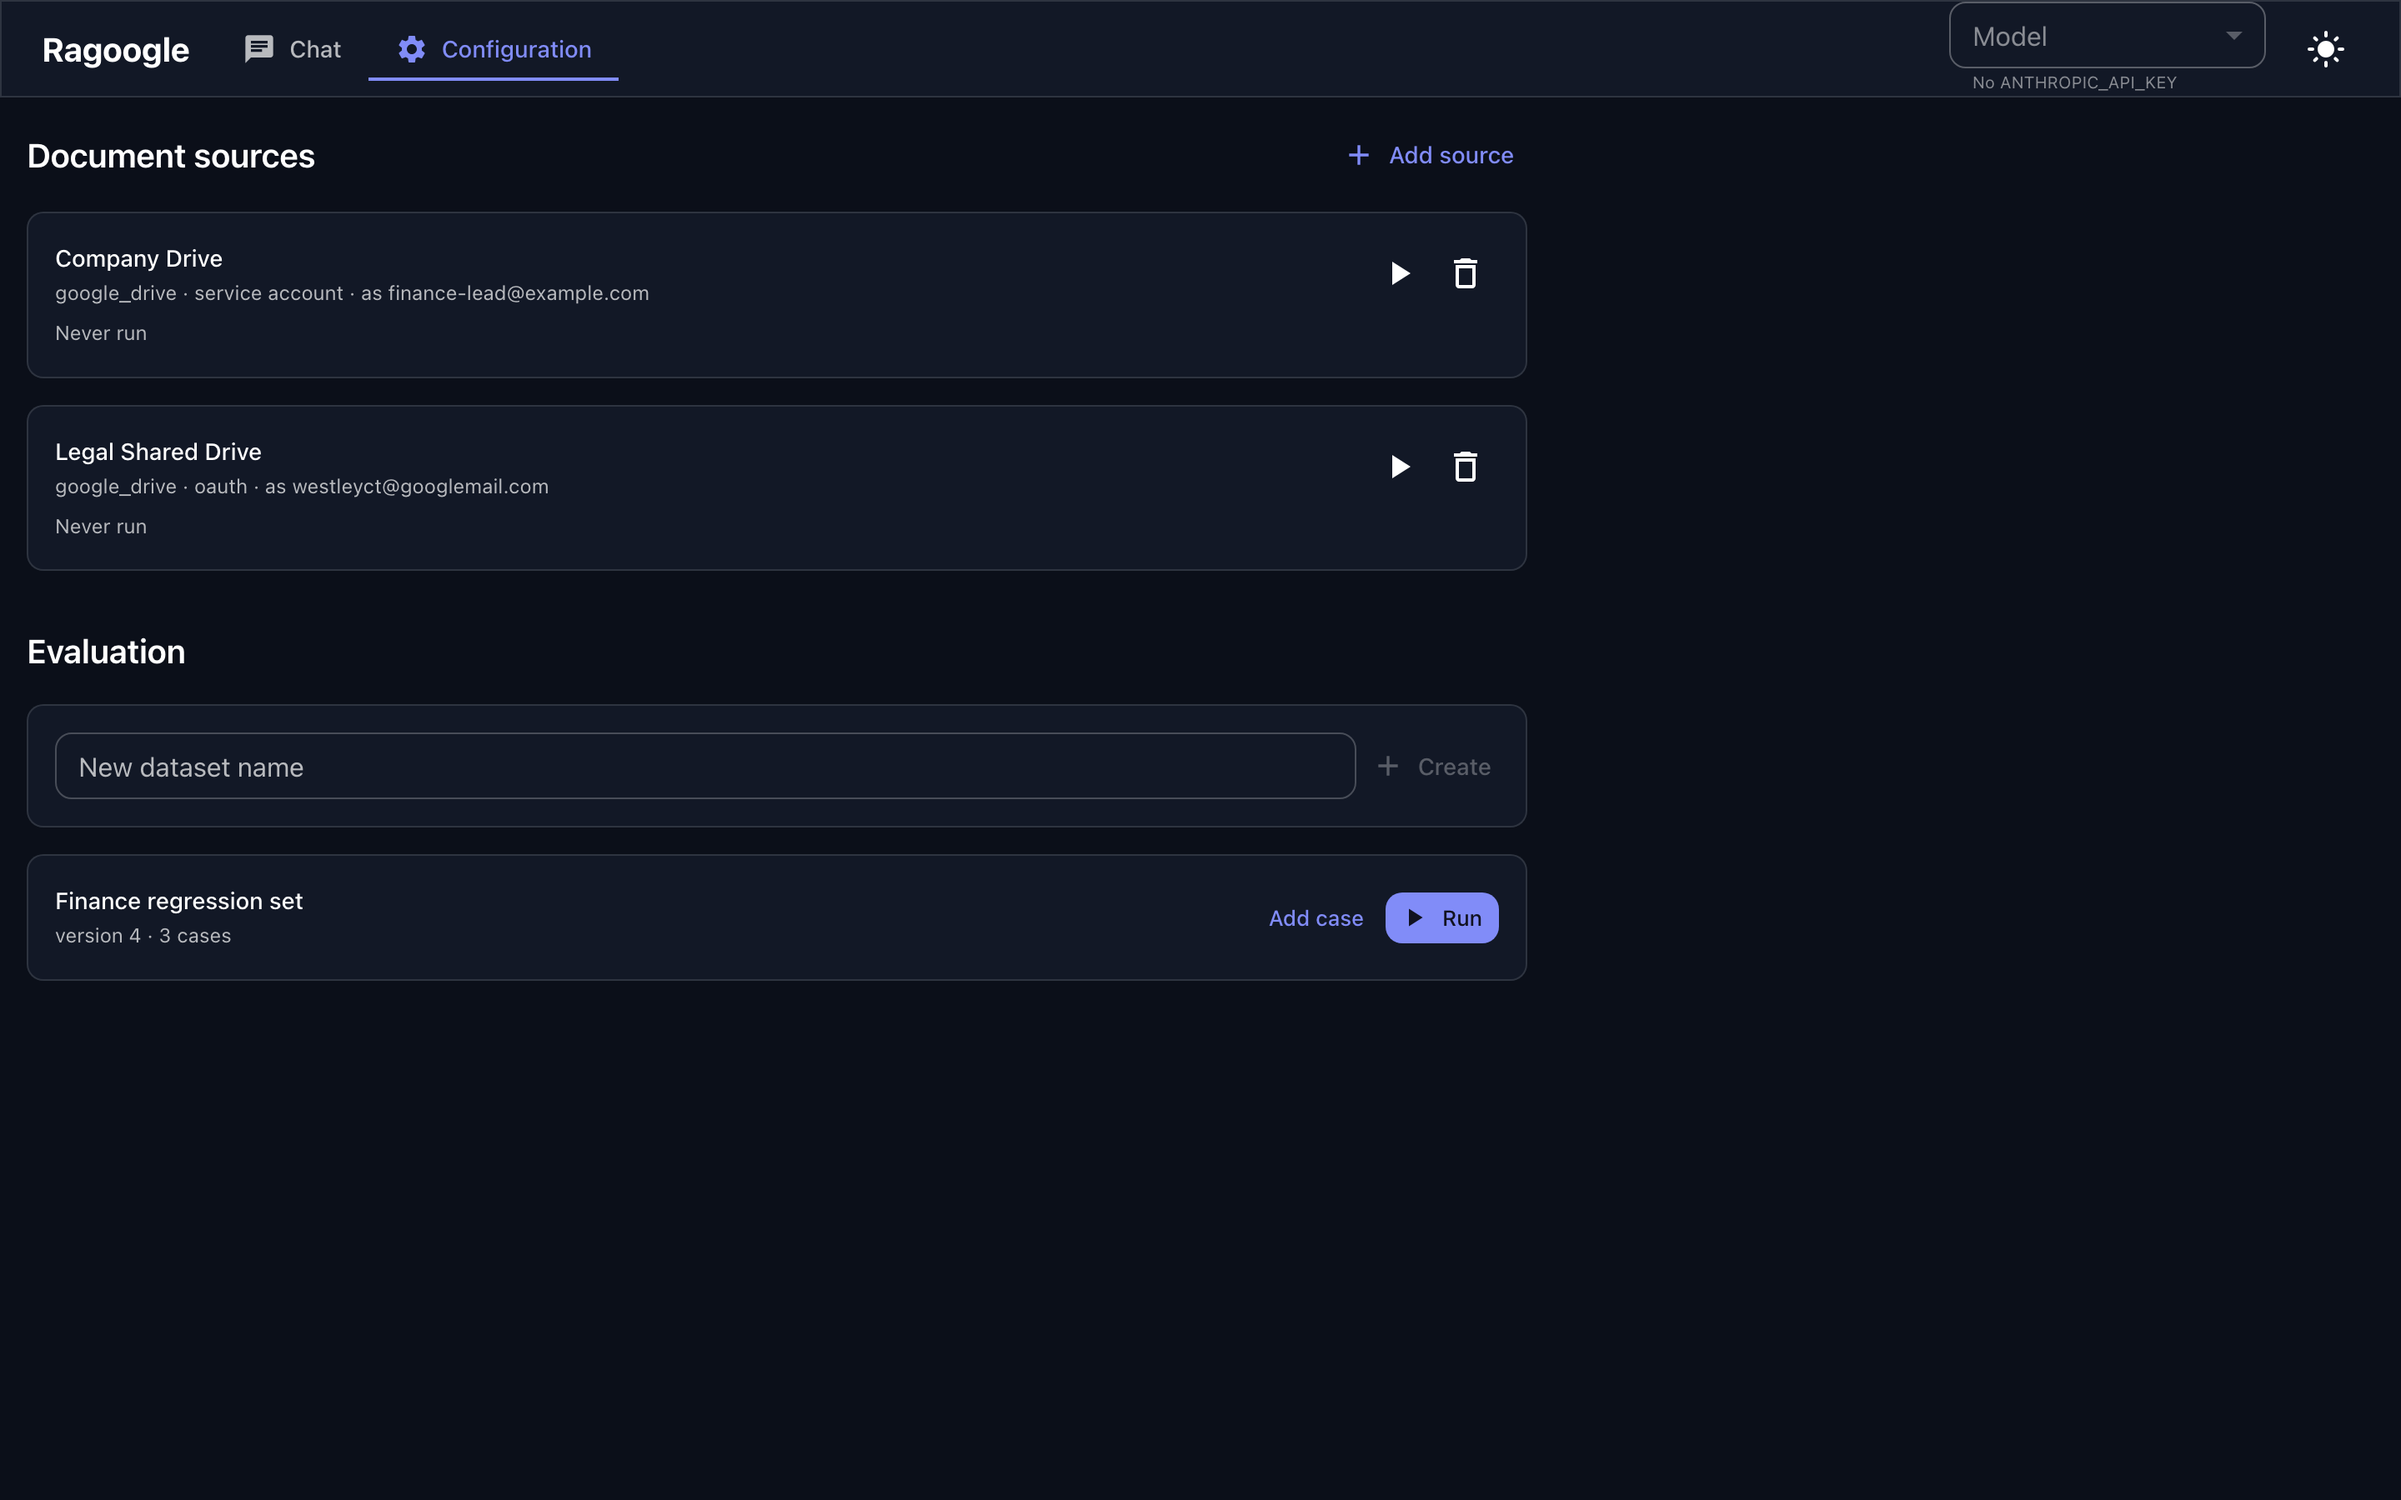
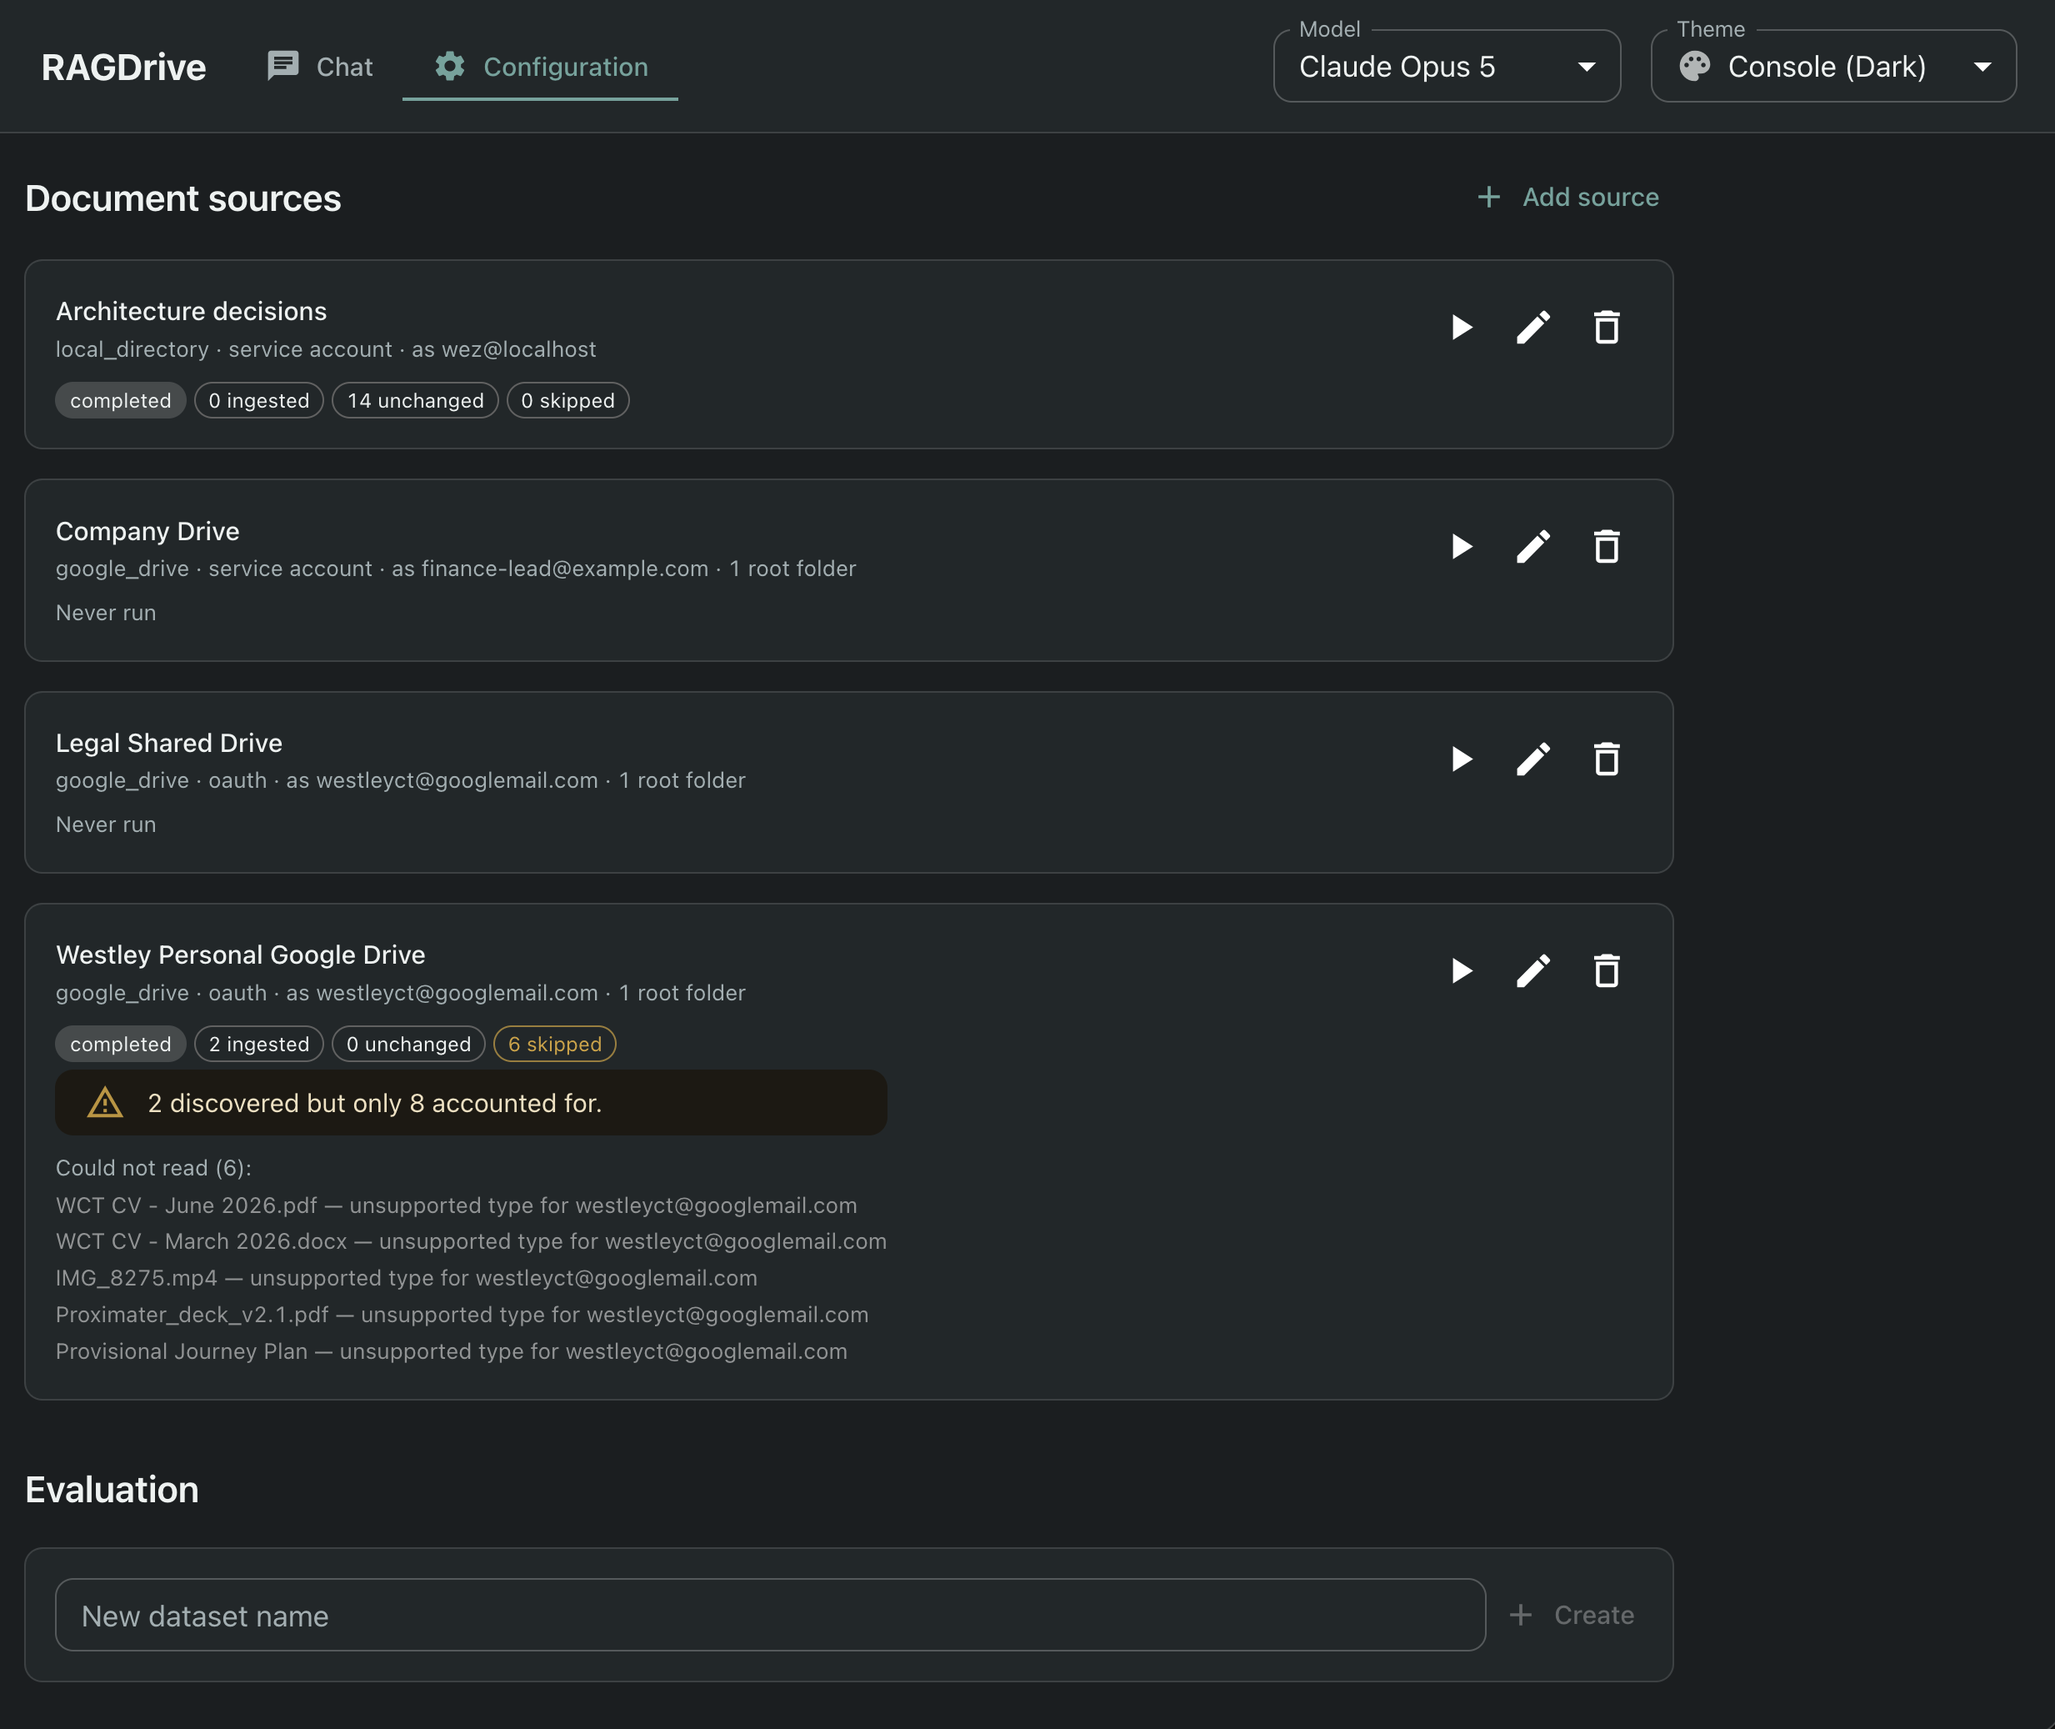
feat(docs): add 1, update 5 files (docs, observability, repo)
- README.md
- apps/observability/src/App.tsx
- docs/diagrams/how-it-works.svg
- docs/screenshots/chat.png
- docs/screenshots/configuration.png
- docs/screenshots/observability.png

diff --git a/apps/observability/src/App.tsx b/apps/observability/src/App.tsx
@@ -117,7 +117,7 @@ export const App = () => {
           }}
         >
           <Typography variant="h6" sx={{ fontWeight: 700 }}>
-            RAGDrive · Architecture
+            RAGDrive · Live Architecture
           </Typography>
           <Chip
             size="small"

diff --git a/README.md b/README.md
@@ -17,9 +17,9 @@ Ask a question; watch retrieval happen; get an answer with its sources.
 
 ![Chat](docs/screenshots/chat.png)
 
-> Shown here with no `ANTHROPIC_API_KEY` configured, which is why the model
-> picker says so. With a key, each turn streams its retrieval trace, a row of
-> source chips, and a live context meter in the right-hand panel.
+Each turn streams its retrieval trace — every ADR it read to answer — alongside
+a live context meter showing what's using the window and what would fall out
+next.
 
 ### Configuration
 
@@ -28,10 +28,10 @@ and manage evaluation datasets.
 
 ![Configuration](docs/screenshots/configuration.png)
 
-The skip list is the point. A folder the ingester was denied is reported with
-the principal it was denied to — because a silent skip is indistinguishable from
-an empty folder, and that ambiguity is how a RAG system ends up confidently
-telling you a document does not exist.
+The skip list is the point: a denied folder is reported with the principal it
+was denied to, because a silent skip is indistinguishable from an empty
+folder — and that's how a RAG system ends up confidently telling you a document
+doesn't exist.
 
 ### Architecture
 
@@ -82,9 +82,9 @@ rather than holding them in plaintext, so ingestion will not start.
      the corpus is whatever that person can see. Best for a shared drive.
    - **OAuth** — click **Connect Google Drive** and consent on Google's own
      screen. Works for personal Gmail, needs no admin, and fills in the
-     principal for you. Requires a one-time Google Cloud Console setup — see
-     `RAGOOGLE_GOOGLE_OAUTH_CLIENT_ID` in `.env.example` for the steps — and is
-     unavailable (with a clear error, not a broken redirect) until that's done.
+     principal for you. Requires a one-time Google Cloud Console setup (see
+     `RAGOOGLE_GOOGLE_OAUTH_CLIENT_ID` in `.env.example`); unavailable, with a
+     clear error rather than a broken redirect, until that's done.
 3. Either way, the credential is encrypted before it touches the database; no
    endpoint ever reads it back.
 4. Click **Browse** to pick root folders from the connected Drive, or paste a
@@ -100,38 +100,25 @@ Permission failures never fail the run. They are recorded, and shown to you.
 
 ## How it works
 
-```
-Google Drive ──► Ingestion ──► chunks + vectors ──► Postgres/pgvector
-                     │                                    │
-                     └── skips (audited) ─────────────┐   │
-                                                      ▼   ▼
-  question ──► dense search ─┐                     Configuration UI
-              lexical search ─┴─► RRF ─► rerank ─► Claude ─► answer + citations
-                     │                                         │
-                     └──────────── trace ──────────────────────┘
-```
+![How it works](docs/diagrams/how-it-works.svg)
 
 **Retrieval is hybrid.** Dense pgvector search finds things that *mean* the same;
 Postgres full-text finds things that *say* the same. Business documents are full
-of tokens that carry meaning without carrying semantics — invoice numbers,
-project codes, surnames — and embeddings smear exactly those. Ask about
-`PRJ-4471` and dense search alone returns documents about *that sort of thing*
-rather than the one containing the string.
+of tokens that carry meaning without semantics — invoice numbers, project codes,
+surnames — and embeddings smear exactly those: ask about `PRJ-4471` and dense
+search alone returns documents about *that sort of thing*, not the one
+containing the string. The two are fused with Reciprocal Rank Fusion, which
+reads only *rank* — cosine distance and text relevance aren't on a common scale,
+so mixing their raw values would hide a weighting that rots as the corpus
+changes. A cross-encoder then reranks the top ~50 down to the ~8 that enter the
+prompt, reading query and passage together so it can tell "mentions the topic"
+from "answers the question".
 
-The two are fused with Reciprocal Rank Fusion, which reads only *rank*, never
-score. Cosine distance and text relevance are not on a common scale, so any
-arithmetic mixing their raw values hides a weighting that rots as the corpus
-changes.
-
-A cross-encoder then reranks the top ~50 down to the ~8 that enter the prompt.
-It reads query and passage together, which is why it can tell "mentions the
-topic" from "answers the question".
-
-**The context window is visible and yours to manage.** Long RAG conversations
-fill the window, something falls out, and the assistant starts answering as
-though a document it cited three turns ago never existed. No error is raised.
-RAGDrive shows what is in the window, what it costs, and — before the next
-turn — exactly what would be pushed out, so you can drop something else instead.
+**The context window is visible and yours to manage.** Long conversations fill
+it, something falls out, and the assistant starts answering as though a
+document it cited earlier never existed — silently, no error raised. RAGDrive
+shows what's in the window, what it costs, and — before the next turn — exactly
+what would be pushed out, so you can drop something else instead.
 
 ---
 
